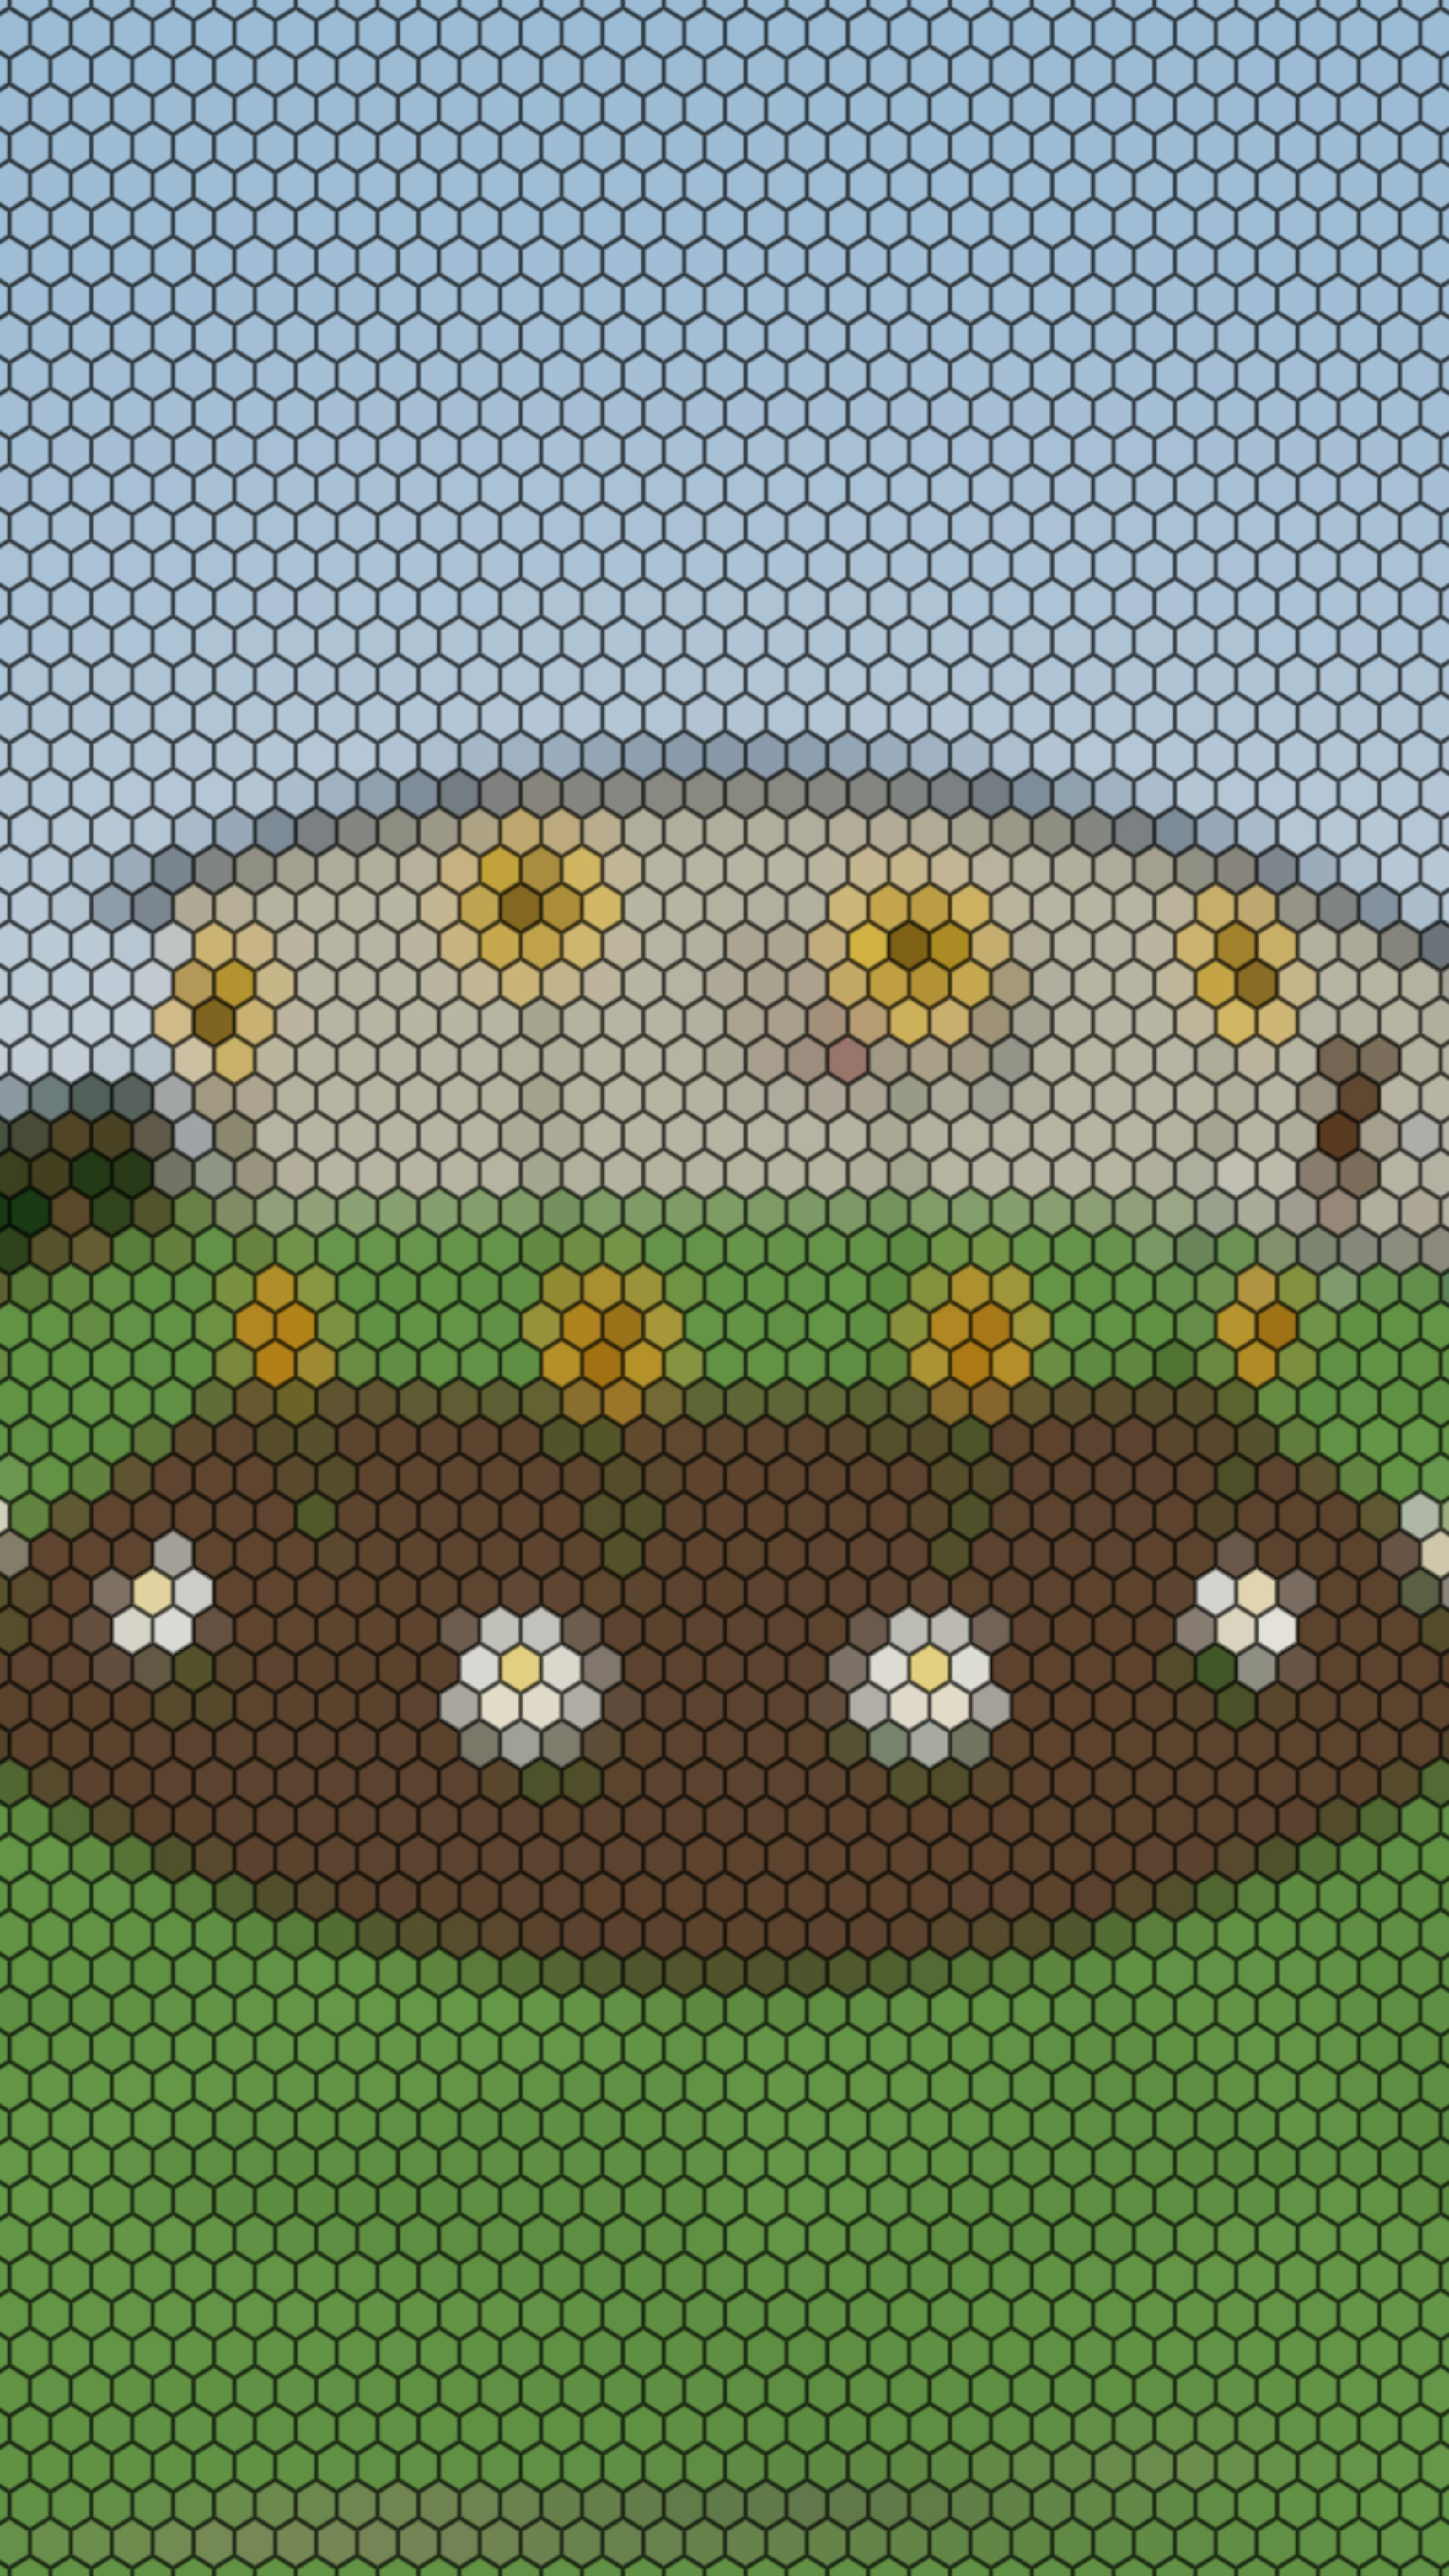
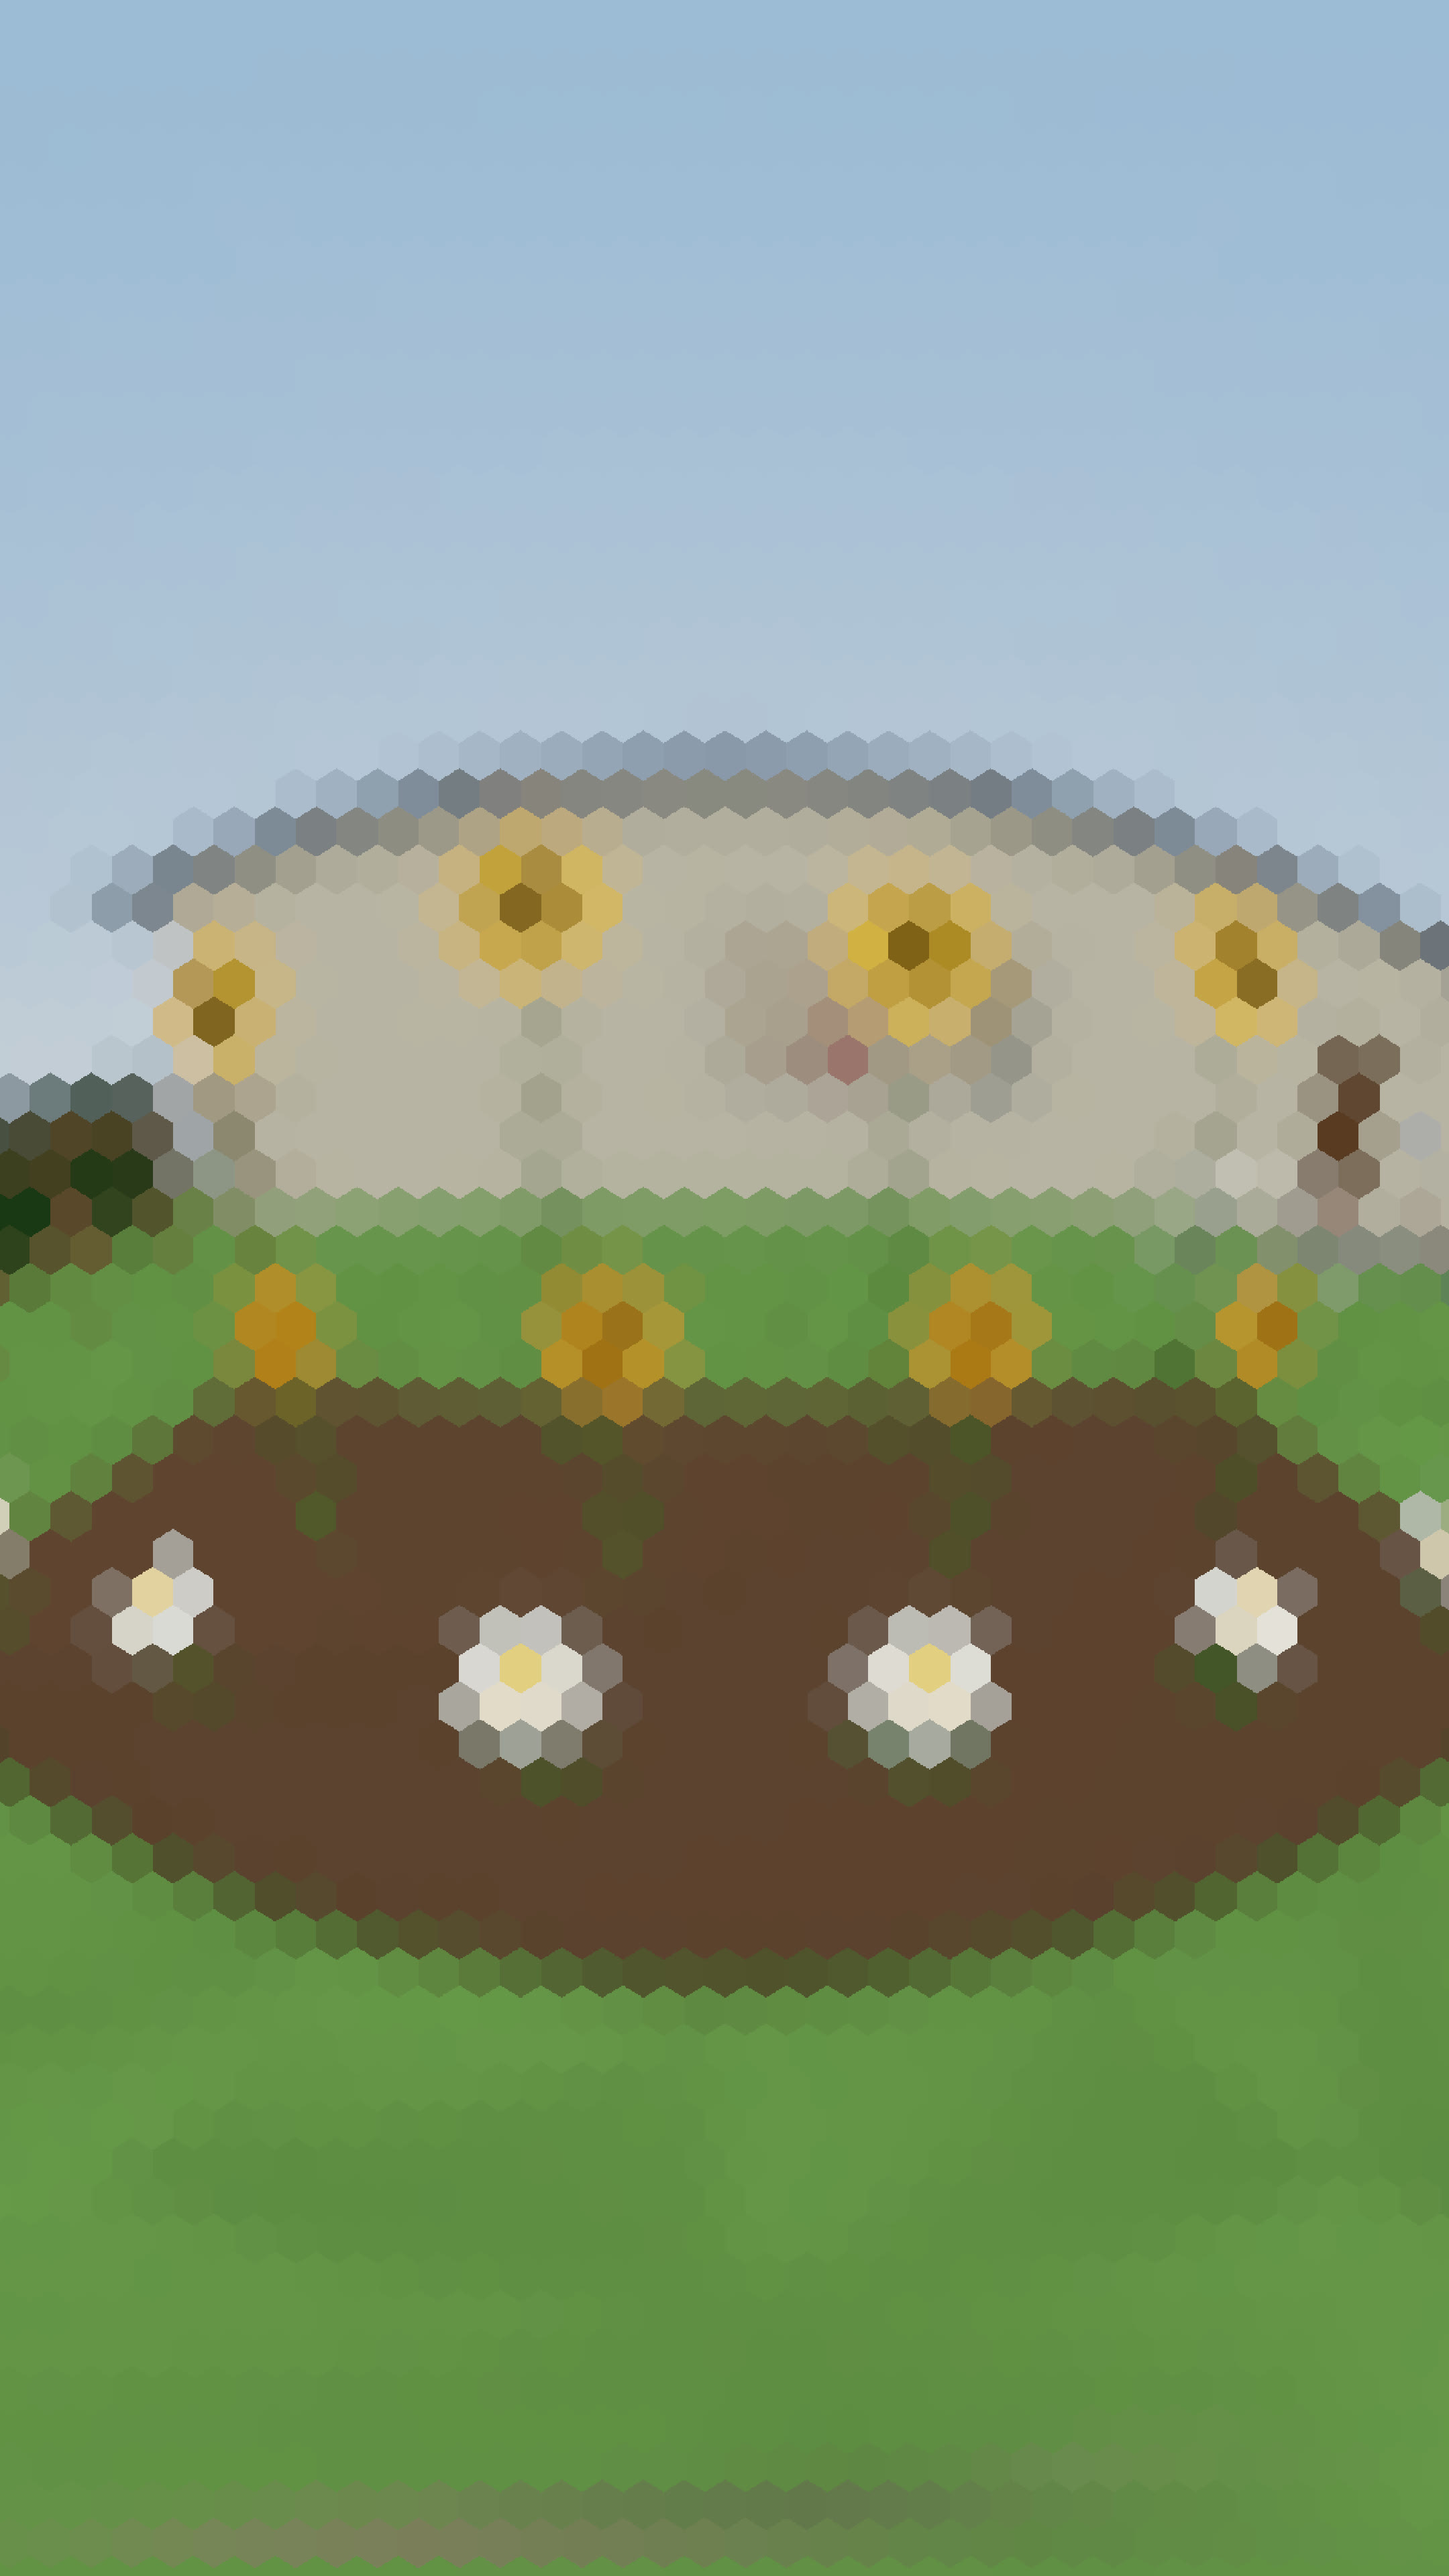
promo: ハエの目のサムネイルを本当のことだけに。個眼のふち（アプリの目印の黒い線。ハエには見えない）を消して撮り直し、色は人の色のままなので言葉は「の細かさで見ると」に

Changed region(s): [[0.0, 0.0, 1.0, 1.0]]

diff --git a/_dev/promo/short-thumbs.js b/_dev/promo/short-thumbs.js
@@ -7,7 +7,8 @@ window.SHORT_THUMBS = {
   'body-dive':     { name: '体内ダイブ', t: 3.4, focus: [0.5, 0.3], zoom: 1.15, kicker: 'カプセル内視鏡になって', big: '口から肛門', sub: 'まで旅してみた', c1: '#ffffff', c2: '#ffd36b' },
   'black-hole':    { name: 'ブラックホールの見え方', t: 20, focus: [0.5, 0.36], zoom: 1.35, kicker: '映画では省かれた、本当の姿', big: 'ブラックホール', sub: '本当は左が明るい', c1: '#fff6d8', c2: '#ffb347' },
   // 2026-10-16: カラスの目（人の目とほぼ同じ絵で目立たなかった）→ ハエの目。ショートにハエの場面はないので、アプリの絵を stills/ に（4K で撮って真ん中を縦に切り出し）
-  'animal-senses': { name: 'いきものの感じる世界', t: 8, still: 'stills/animal-senses-fly.jpg', focus: [0.5, 0.36], zoom: 1, wzoom: 0.5, wfocus: [0.5, 0.42], kicker: '同じ庭なのに', big: 'ハエの目', sub: 'には、こう見える', c1: '#fff3d0', c2: '#ffb84a' },
+  //   本当のことだけ: 個眼のふち（アプリの目印の黒い線）は消して撮った（ハエにふちは見えない。六角形1つ＝個眼1つの画素）。色は人の色のままなので、言葉は「細かさ」だけ
+  'animal-senses': { name: 'いきものの感じる世界', t: 8, still: 'stills/animal-senses-fly.jpg', focus: [0.5, 0.36], zoom: 1, wzoom: 0.5, wfocus: [0.5, 0.42], kicker: '同じ庭なのに', big: 'ハエの目', sub: 'の細かさで見ると', c1: '#fff3d0', c2: '#ffb84a' },
   'quantum':       { name: '量子の実験室', t: 17, focus: [0.5, 0.3], zoom: 1.6, kicker: '電子を1個ずつ飛ばすと', big: 'しま模様', sub: 'が現れる ― 二重スリット', c1: '#fff3a0', c2: '#ffc21e' },
   'metamorphosis': { name: 'さなぎの中で', t: 13, focus: [0.5, 0.36], zoom: 1.7, kicker: 'イモムシがガになるまで18日', big: 'さなぎの中', sub: 'はどうなってる？', c1: '#e0fbff', c2: '#43d3ff' },
   'immune-battle': { name: '免疫のたたかい', t: 21, focus: [0.5, 0.35], zoom: 1.6, kicker: 'インフルエンザのウイルスは3日目に', big: '数十億個', sub: 'それでも8日目ごろ消える', c1: '#ffe0ea', c2: '#ff5c8a' },
